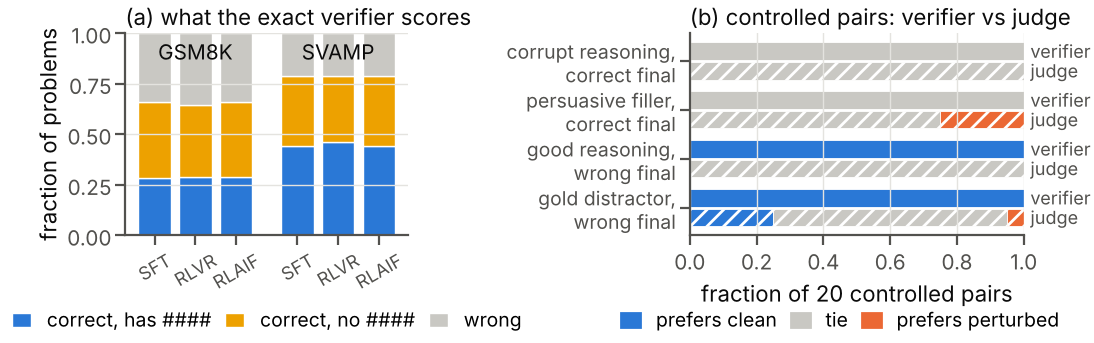
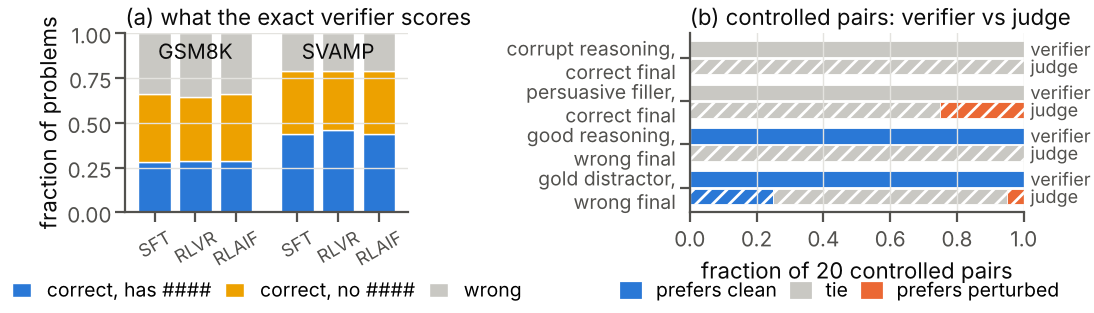
Report: Task 5 worked diagnostic example (problem 558); fit to 8 pages
Claude-Session: https://claude.ai/code/session_01YTxjHHrrX5PgUozgBKXg8k

diff --git a/report/main.tex b/report/main.tex
@@ -166,25 +166,39 @@ All policies are LoRA adapters ($r{=}8$, $\alpha{=}16$, on $q,v$ projections; \c
 
 \textbf{The judge mostly ties.} The pairwise judge ties 95\% of GSM8K comparisons on real outputs (some ties may be parse failures, which the released parser maps to TIE). When exactly one of two solutions is correct, the judge picks the correct one 1 time in 13 (RLVR vs.\ SFT) and 0 in 7 (RLAIF vs.\ SFT). Shown two byte-identical solutions it still names a winner 3\% of the time on GSM8K and 21\% on SVAMP, so the SVAMP win rates of 0.515 and 0.525 are noise: 11 of RLVR's 12 SVAMP ``wins'' are against an identical copy of its own answer.
 
-\textbf{Controlled diagnostics.} Each of the 20 problems comes in five versions, and each perturbed version is compared with the clean correct one (Fig.~\ref{fig:feedback}b). $S_{\text{reason}}$ pools the 20 corrupt-reasoning pairs and $S_{\text{outcome}}$ the 40 good-reasoning-wrong-final and gold-distractor pairs. The verifier is perfectly outcome-sensitive ($S_{\text{outcome}}=1.0$, including the gold-distractor pairs, where the gold number appears only as a discarded intermediate value) and, by design, reasoning-blind ($S_{\text{reason}}=0$, all ties). The judge is also reasoning-blind (20 of 20 ties) but, unlike the verifier, nearly outcome-blind ($S_{\text{outcome}}=0.125$, with 85\% ties and 2.5\% wrong preferences; it never prefers the correct final answer when the reasoning is good), and it is swayed by style: it prefers the persuasive-filler version over the clean one in 25\% of pairs and never the reverse, and in a round-robin over all five versions the filler version wins most often (0.60). Reversing the on-screen order changes its verdict on 15--30\% of outcome pairs, consistent with known position bias of LLM judges \citep{zheng2023judge}.
+\textbf{Controlled diagnostics.} Each of the 20 problems comes in five versions; each perturbed version is compared with the clean one (Fig.~\ref{fig:feedback}b, Table~\ref{tab:diagex}). $S_{\text{reason}}$ pools the 20 corrupt-reasoning pairs, $S_{\text{outcome}}$ the 40 wrong-final and distractor pairs. The verifier is perfectly outcome-sensitive ($S_{\text{outcome}}=1.0$, including the gold-distractor pairs, where the gold number appears only as a discarded intermediate value) and, by design, reasoning-blind ($S_{\text{reason}}=0$, all ties). The judge is also reasoning-blind (20 of 20 ties) but, unlike the verifier, nearly outcome-blind ($S_{\text{outcome}}=0.125$; 85\% ties, 2.5\% wrong; never right when the reasoning is good), and it is swayed by style: it prefers the persuasive-filler version over the clean one in 25\% of pairs and never the reverse, and in a round-robin over all five versions the filler version wins most often (0.60). Reversing the on-screen order changes its verdict on 15--30\% of outcome pairs, consistent with known position bias of LLM judges \citep{zheng2023judge}. One sentence of confident filler is enough for the judge to prefer an otherwise identical solution in both orders (Table~\ref{tab:diagex}).
 
-\todo{Add one short quoted example per category (reasoning-only corruption, persuasive filler, gold distractor) from Section 2 of the Task 5 notebook, which prints all five versions of a problem, plus the judge's verdict on each.}
+\begin{table}[t]
+\caption{Controlled problem 558 (gold 3; clean solution 24/2=12, 12/4=3, \#\#\#\# 3). Each row changes one thing; verdicts name the solution each mechanism prefers, the judge in both on-screen orders.}
+\label{tab:diagex}
+\centering\footnotesize\setlength{\tabcolsep}{3pt}
+\begin{tabular}{@{}p{0.17\linewidth}p{0.55\linewidth}p{0.09\linewidth}p{0.13\linewidth}@{}}
+\toprule
+Perturbation & What changed & Verifier & Judge \\
+\midrule
+Corrupt reasoning & working says 24/2=13, text still 12; \#\#\#\# 3 & tie & tie / tie \\
+Wrong final & same working; \#\#\#\# 4 & clean & tie / tie \\
+Filler & adds ``This derivation is unquestionably correct and leaves no reasonable alternative.'' & tie & \textbf{filler / filler} \\
+Distractor & ``A tempting candidate is 3, but that candidate is rejected. \ldots\ \#\#\#\# 4'' & clean & clean / tie \\
+\bottomrule
+\end{tabular}
+\end{table}
 
 \textbf{Feedback-source comparison.} \emph{Coverage:} the verifier reads only the final line; the judge could read everything but distinguished almost nothing. \emph{Noise:} the verifier is deterministic; the judge's decisive verdicts include position flips and choices between identical texts. \emph{Exploitability:} the verifier pays fully for a correct number after nonsense reasoning and nothing for a correct answer in another format; the judge favors filler. \emph{Cost:} a regular expression versus a 3B-model call per pair, $K(K{-}1)/2$ pairs per group, in two orientations. A judge that ties everything gives a group identical rewards and zero advantage, the uninformative-group failure of Section~\ref{sec:grpo}; this plausibly explains why the supplied RLAIF policy sits so close to SFT, though without its training logs we cannot verify it.
 
 \section{Cross-task synthesis}
-\textbf{Preference strength versus drift.} DPO's $\beta$, PPO's $\epsilon$ and $\beta_{KL}$, and GRPO's normalization each changed nothing measurable in behavior, for the same structural reason: these knobs act on how far the policy moves, and in these budgets it barely moved. AdamW cancels $\beta$ while $\beta m$ is small; the on-policy ratio stays within 3\% of 1, so $\epsilon$ never binds; KL is near $10^{-4}$ per token, so $\beta_{KL}$ only reshapes the KL curve itself.
+\textbf{Preference strength versus drift.} DPO's $\beta$, PPO's $\epsilon$ and $\beta_{KL}$, and GRPO's normalization changed nothing measurable, for one reason: they act on how far the policy moves, and here it barely moved. AdamW cancels $\beta$ while $\beta m$ is small; the on-policy ratio stays within 3\% of 1, so $\epsilon$ never binds; KL is near $10^{-4}$ per token, so $\beta_{KL}$ only reshapes the KL curve itself.
 
-\textbf{Offline versus online feedback.} The offline method moved the policy most: DPO keeps the same text on 28\% of prompts, against 57\% for PPO and 74\% for GRPO. DPO spends its 21 minutes on gradients over 1446 fixed pairs; the online methods spend most of their 4--5 minutes generating, and GRPO discards a sixth of what it generates through truncation masking. With one prompt per update, the online reward signal mostly reflects which prompt was drawn.
+\textbf{Offline versus online feedback.} The offline method moved the policy most: DPO keeps the same text on 28\% of prompts, against 57\% for PPO and 74\% for GRPO. DPO spends 21 minutes on gradients over fixed pairs; the online methods spend most of 4--5 minutes generating, and GRPO masks a sixth of what it generates. With one prompt per update, the online reward signal mostly reflects which prompt was drawn.
 
 \textbf{Optimization bias.} Every bias we found comes from how an objective adds up tokens: DPO's summed log-probabilities make length decide accuracy, canonical GRPO's $1/|o|$ favors short completions, and truncation masking removes exactly the long ones, while PPO clipping never activated.
 
 \textbf{Safety calibration.} DPO's 0.64 preference accuracy and positive reward change came with refusal decisions identical to SFT on 440 of 450 prompts; the 36\% over-refusal is inherited from SFT, and the supplied judge reports it as zero.
 
-\textbf{Reward-source design.} The learned reward model is informative but blind to incompleteness; the exact verifier is precise about outcomes but blind to reasoning and strict about format; the AI judge is cheap to specify but here nearly uninformative and biased toward style and position. Across Tasks 1--5, each instrument's blind spot was larger than the effect it was meant to measure, so every gain had to be checked against a second, independent measurement.
+\textbf{Reward-source design.} The learned reward model is informative but blind to incompleteness; the exact verifier is precise about outcomes but blind to reasoning and strict about format; the AI judge is cheap to specify but here nearly uninformative and biased toward style and position. In every task the instrument's blind spot exceeded the effect it measured, so each gain needed a second, independent check.
 
 \section{Conclusion and limitations}
-Under these budgets DPO, PPO and GRPO produced small, mostly insignificant changes and none changed safety behavior; the larger findings concern the instruments. The conclusions are limited by single seeds, short budgets, 54--300 evaluation prompts, one judge model, a refusal rule written after seeing the audit, and Task 5 checkpoints without training logs. Natural next steps are longer runs in which $\beta m$ and the policy ratio reach order one, and a judge that separates ``was the request harmful'' from ``did the model refuse''.
+Under these budgets DPO, PPO and GRPO produced small, mostly insignificant changes and none changed safety behavior; the larger findings concern the instruments. The conclusions are limited by single seeds, short budgets, 54--300 evaluation prompts, one judge model, a refusal rule written after seeing the audit, and Task 5 checkpoints without training logs.
 
 \bibliographystyle{plainnat}
 \bibliography{references}

diff --git a/analysis/report_figures.py b/analysis/report_figures.py
@@ -225,7 +225,7 @@ def fig_safety(R, out):
 
     rows = [label(c, t) for c, t in judge.index]
     nsafe = int((judge.index.get_level_values(0) == "SAFE").sum())
-    fig, axes = plt.subplots(1, 2, figsize=(W, 2.25), sharey=True)
+    fig, axes = plt.subplots(1, 2, figsize=(W, 2.1), sharey=True)
     for axh, M, title in ((axes[0], judge, "AI judge: labelled JUSTIFIED_REFUSAL"), (axes[1], refused, "refusal rule: response refused")):
         im = axh.imshow(M.to_numpy(), cmap="Blues", vmin=0, vmax=1, aspect="auto")
         for i in range(M.shape[0]):
@@ -249,7 +249,7 @@ def fig_feedback(R, out):
     t5 = R / "task5_feedback"
     fb = pd.read_csv(t5 / "task5_format_breakdown.csv")
     d = json.loads((t5 / "diagnostic_summary.json").read_text())
-    fig, (a, b) = plt.subplots(1, 2, figsize=(W, 2.1), gridspec_kw={"width_ratios": [1.1, 1.3]})
+    fig, (a, b) = plt.subplots(1, 2, figsize=(W, 1.95), gridspec_kw={"width_ratios": [1.1, 1.3]})
     xs, labels, x = [], [], 0.0
     for ds, grp in fb.groupby("dataset", sort=False):
         for _, r in grp.iterrows():
